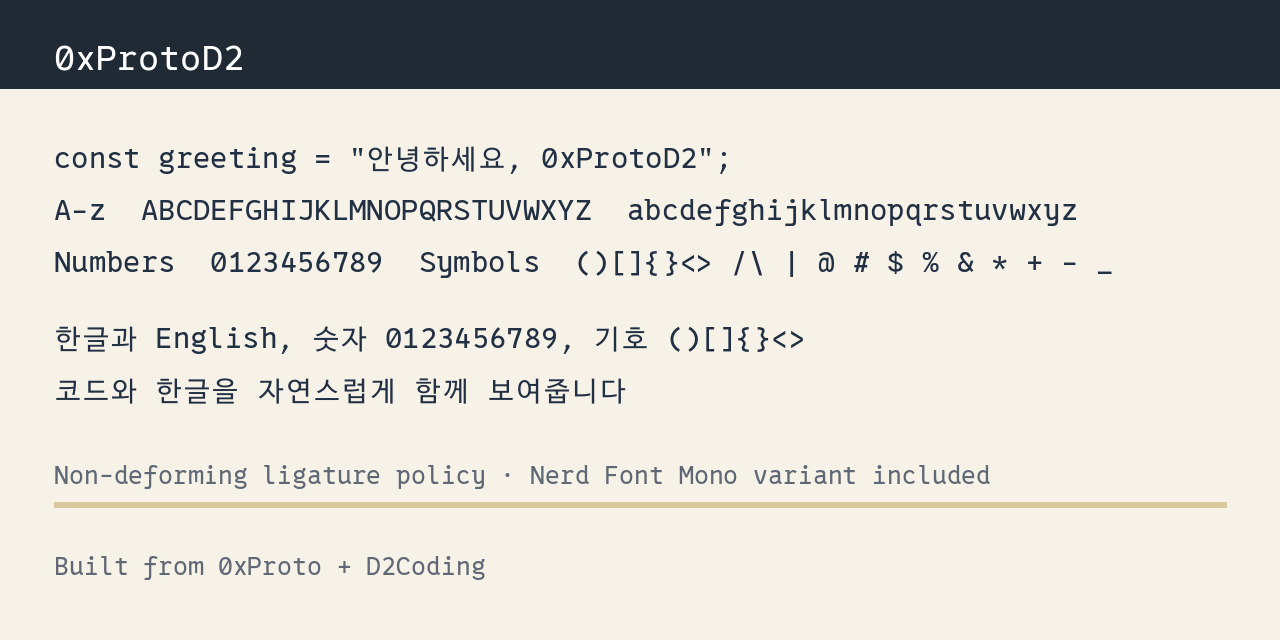
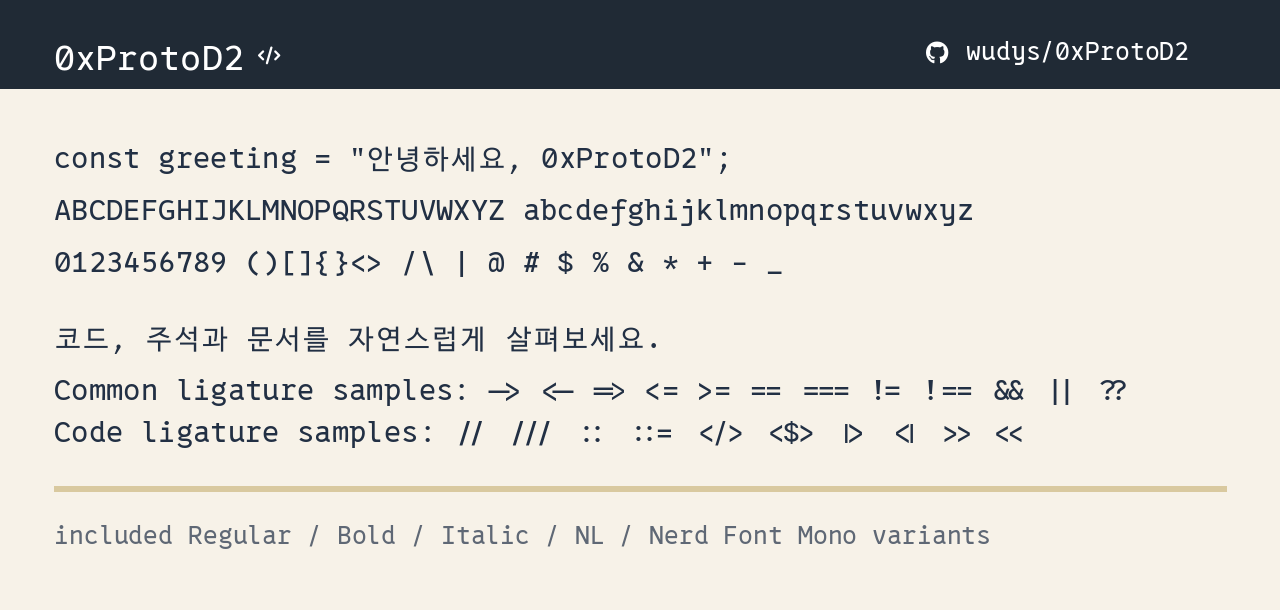
docs(readme): document italic variants and update preview

diff --git a/scripts/build_preview.py b/scripts/build_preview.py
@@ -11,6 +11,13 @@ from font_settings import get_hangul_settings
 
 
 PREVIEW_PATH = "preview"
+README_PREVIEW_IMAGE_PATH = os.path.join(ASSETS_PATH, "preview.png")
+README_PREVIEW_FONT_SIZE = 28
+README_HEADER_FONT_SIZE = 34
+README_NOTE_FONT_SIZE = 24
+README_FOOTER_FONT_SIZE = 24
+README_TITLE_ICON_SIZE = 36
+README_GITHUB_ICON_SIZE = 36
 SAMPLE_TEXTS = [
     "00000000000000000000",
     "가나다라마바사아자차카타파하",
@@ -52,8 +59,9 @@ def render_preview_png(
     primary_metrics: dict[str, object],
 ) -> None:
     font_size = 34
-    label_font = ImageFont.truetype("/System/Library/Fonts/Supplemental/Arial.ttf", 16)
-    info_font = ImageFont.truetype("/System/Library/Fonts/Supplemental/Arial.ttf", 18)
+    ui_font_path = str(primary_metrics["font"])
+    label_font = ImageFont.truetype(ui_font_path, 16)
+    info_font = ImageFont.truetype(ui_font_path, 18)
     fonts = [(label, ImageFont.truetype(path, font_size)) for label, path in font_paths]
 
     width = 1500
@@ -110,6 +118,64 @@ def render_preview_png(
     image.save(output_path)
 
 
+def render_readme_preview(output_path: str = README_PREVIEW_IMAGE_PATH) -> bool:
+    font_path = os.path.join(
+        FONT_FAMILY_OUTPUT_PATHS["0xProtoD2"], "0xProtoD2-Regular.ttf"
+    )
+    nerd_font_path = os.path.join(
+        FONT_FAMILY_OUTPUT_PATHS["0xProtoD2"], "0xProtoD2-NL-NerdFontMono-Regular.ttf"
+    )
+    if not os.path.exists(font_path):
+        print(f"[ERROR] 미리보기용 폰트를 찾을 수 없습니다: {font_path}")
+        return False
+    if not os.path.exists(nerd_font_path):
+        print(f"[ERROR] 미리보기용 Nerd Font를 찾을 수 없습니다: {nerd_font_path}")
+        return False
+
+    font = ImageFont.truetype(font_path, README_PREVIEW_FONT_SIZE)
+    header_font = ImageFont.truetype(font_path, README_HEADER_FONT_SIZE)
+    note_font = ImageFont.truetype(font_path, README_NOTE_FONT_SIZE)
+    footer_font = ImageFont.truetype(font_path, README_FOOTER_FONT_SIZE)
+    title_icon_font = ImageFont.truetype(nerd_font_path, README_TITLE_ICON_SIZE)
+    github_icon_font = ImageFont.truetype(nerd_font_path, README_GITHUB_ICON_SIZE)
+    image = Image.new("RGB", (1280, 610), "#f7f2e8")
+    draw = ImageDraw.Draw(image)
+
+    ink = "#223044"
+    muted = "#5f6875"
+    bar = "#202a35"
+    rule = "#d9c99f"
+
+    draw.rectangle((0, 0, 1280, 88), fill=bar)
+    draw.text((54, 31), "0xProtoD2", font=header_font, fill="white")
+    draw.text((258, 27), "\uf121", font=title_icon_font, fill="white")
+    draw.text((926, 24), "\uf09b", font=github_icon_font, fill="white")
+    draw.text((966, 32), "wudys/0xProtoD2", font=footer_font, fill="white")
+
+    lines = [
+        (54, 136, 'const greeting = "안녕하세요, 0xProtoD2";', ink),
+        (54, 188, "ABCDEFGHIJKLMNOPQRSTUVWXYZ abcdefghijklmnopqrstuvwxyz", ink),
+        (54, 240, "0123456789 ()[]{}<> /\\ | @ # $ % & * + - _", ink),
+        (54, 316, "코드, 주석과 문서를 자연스럽게 살펴보세요.", ink),
+        (54, 368, "Common ligature samples: -> <- => <= >= == === != !== && || ??", ink),
+        (54, 410, "Code ligature samples: // /// :: ::= </> <$> |> <| >> <<", ink),
+    ]
+    for x, y, text, fill in lines:
+        draw.text((x, y), text, font=font, fill=fill)
+    draw.rectangle((54, 486, 1226, 491), fill=rule)
+    draw.text(
+        (54, 516),
+        "included Regular / Bold / Italic / NL / Nerd Font Mono variants",
+        font=note_font,
+        fill=muted,
+    )
+
+    os.makedirs(os.path.dirname(output_path), exist_ok=True)
+    image.save(output_path)
+    print(f"[INFO] README 미리보기 PNG 생성: {output_path}")
+    return True
+
+
 def generate_preview() -> bool:
     os.makedirs(PREVIEW_PATH, exist_ok=True)
     primary_font = os.path.join(
@@ -134,7 +200,7 @@ def generate_preview() -> bool:
 
     print(f"[INFO] 미리보기 PNG 생성: {png_path}")
     print(f"[INFO] 미리보기 metrics 생성: {metrics_path}")
-    return True
+    return render_readme_preview()
 
 
 if __name__ == "__main__":

diff --git a/README.md b/README.md
@@ -2,14 +2,14 @@
 
 ![0xProtoD2 preview](assets/preview.png)
 
-0xProtoD2는 [0xProto](https://github.com/0xType/0xProto)의 코드 가독성과 [D2Coding](https://github.com/naver/d2codingfont)의 한글 글리프를 한 family 안에 맞춘 프로그래밍 글꼴입니다. fallback font나 secondary font를 지정하기 어려운 환경에서도 영문 코드, 한글 주석, 문서를 균형 있게 표시하는 것을 목표로 합니다.
+0xProtoD2는 영문 코드와 한글 주석, 문서를 한 family 안에서 균형 있게 표시하기 위한 프로그래밍 글꼴입니다. fallback font나 secondary font를 지정하기 어려운 환경에서도 [0xProto](https://github.com/0xType/0xProto)의 코드 가독성과 [D2Coding](https://github.com/naver/d2codingfont)의 한글 프로그래밍 글꼴 경험을 함께 사용할 수 있도록 맞췄습니다.
 
 ## 특징
 
-- **0xProto의 코드 가독성**: 비슷한 글자를 구분하기 쉬운 형태, 작은 크기에서도 읽기 좋은 여백, 의미와 형태를 과하게 바꾸지 않는 ligature 정책을 따릅니다.
-- **한글 지원**: D2Coding의 한글 글리프를 함께 넣어 영문 코드와 한글 주석, 문서를 한 family 안에서 자연스럽게 표시합니다.
-- **용도별 버전 제공**: 기본, No Ligatures, Nerd Font Mono, 웹폰트용 WOFF2 파일을 제공합니다.
-- **한글 관련 설정**: 빌드 시 한글 폭, 외곽선 크기, 좌우 여백을 조정할 수 있습니다.
+- **코드 가독성**: 비슷한 글자를 구분하기 쉬운 형태, 작은 크기에서도 읽기 좋은 여백, 의미와 형태를 과하게 바꾸지 않는 ligature 정책을 따릅니다.
+- **자연스러운 한글 표시**: 한글 주석과 문서가 영문 코드와 같은 family 안에서 어색하게 튀지 않도록 폭, 외곽선 크기, 좌우 여백을 조정했습니다.
+- **용도별 버전 제공**: Regular, Bold, Italic, No Ligatures, Nerd Font Mono, 웹폰트용 WOFF2 파일을 제공합니다.
+- **빌드 설정 제공**: 한글 폭, 외곽선 크기, 좌우 여백을 빌드 시 조정할 수 있습니다.
 
 ## 설치
 
@@ -22,6 +22,8 @@
 | Nerd Font Mono | `0xProtoD2 NL Nerd Font Mono` | TTF        | 터미널, Vim/Neovim               |
 
 각 버전은 같은 글리프를 가진 `ZxProtoD2` 호환 family로도 함께 제공합니다. 릴리스 파일명에는 공백 대신 하이픈이 들어갈 수 있습니다.
+기본, NL, Nerd Font Mono family는 Regular / Bold / Italic 스타일을 제공합니다.
+`Italic` 스타일은 0xProto의 Italic 영문 글리프와 Script Variant를 포함합니다. D2Coding은 별도 Italic 한글 글리프를 제공하지 않으므로, Italic 산출물의 한글은 D2Coding Regular 글리프를 사용합니다.
 
 ## 빌드
 
@@ -52,6 +54,12 @@ brew install fontforge
 python3 scripts/build.py build
 ```
 
+테스트:
+
+```bash
+python3 scripts/test_font_build.py
+```
+
 미리보기 생성:
 
 미리보기 생성에는 Pillow와 fontTools가 추가로 필요합니다.
@@ -66,12 +74,6 @@ python3 scripts/build.py preview
 
 `preview/balance-comparison.png`에는 현재 설정값과 D2Coding/0xProtoD2 렌더링 비교가 함께 표시됩니다.
 `preview/metrics.json`에는 실제 advance width 측정값이 저장됩니다.
-
-테스트:
-
-```bash
-python3 scripts/test_font_build.py
-```
 
 ## 커스텀 설정
 
@@ -96,10 +98,11 @@ python3 scripts/test_font_build.py
 
 ## 라이선스
 
-이 프로젝트는 [SIL Open Font License 1.1](LICENSE)을 따릅니다. [FiraD2](https://github.com/partrita/FiraD2)에서 포크해 시작했지만, 0xProtoD2에 맞게 여러 변경이 이뤄졌습니다.
+이 프로젝트는 [LICENSE](LICENSE)을 따릅니다.
 
-- 0xProto: SIL OFL 1.1
-- D2Coding: SIL OFL 1.1
-- Nerd Fonts Patcher: MIT License
+- [0xProto](https://github.com/0xType/0xProto/blob/main/LICENSE): SIL OFL 1.1
+- [D2Coding](https://github.com/naver/d2codingfont/wiki/Open-Font-License): SIL OFL 1.1
+- [Nerd Fonts Patcher](https://github.com/ryanoasis/nerd-fonts/blob/master/LICENSE): MIT License
+- Forked from [FiraD2](https://github.com/partrita/FiraD2/blob/main/LICENSE): SIL OFL 1.1
 
-원본 폰트의 저작권 고지는 유지해야 합니다.
+각 라이선스 고지는 유지해야 합니다.
